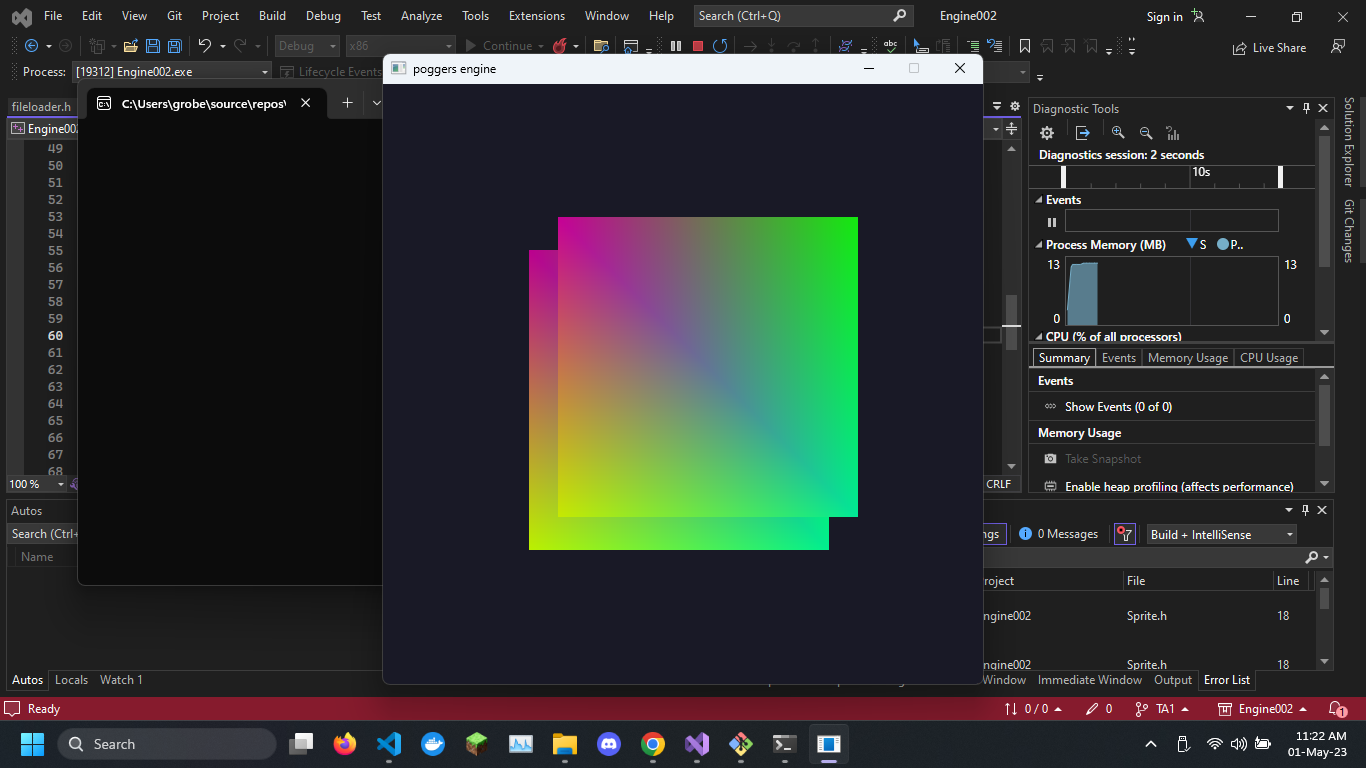
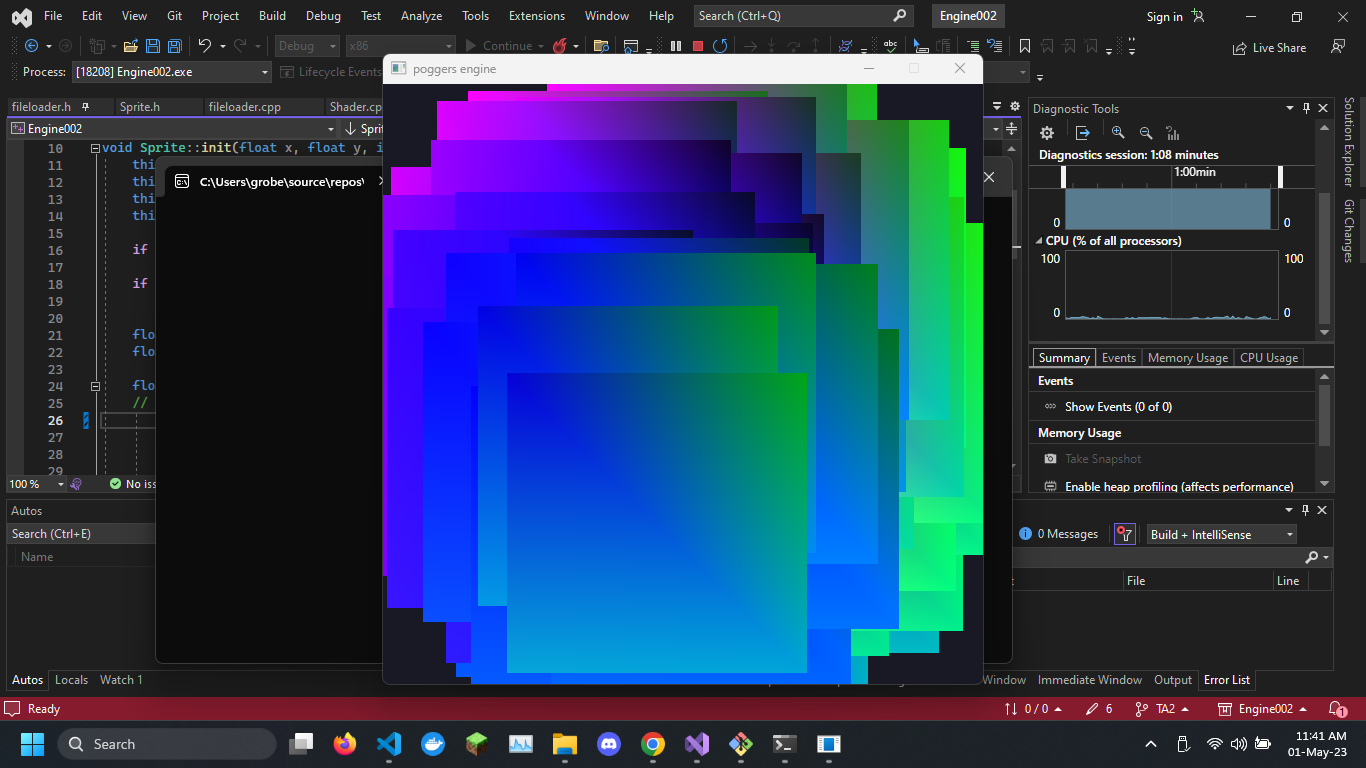
TA2

diff --git a/Engine002/MainGame.cpp b/Engine002/MainGame.cpp
@@ -6,6 +6,7 @@ MainGame::MainGame() {
 	height = 600;
 	gameState = GameState::PLAY;
 	timer = 0.0f;
+	timerSpawn = 0.0f;
 }
 
 MainGame::~MainGame() {
@@ -52,14 +53,23 @@ void MainGame::draw() {
 	glClear(GL_COLOR_BUFFER_BIT | GL_DEPTH_BUFFER_BIT);
 	// si tengo elementos actualizo
 
+	timerSpawn += 0.001f;
+	if (timerSpawn > 1.0f) {
+		timerSpawn = 0.0f;
+		size_t index = points.size();
+		points.push_back(std::make_pair(cosf(timer) * 0.25f, sinf(timer) * 0.25f));
+	}
+
 	timer += 0.001f;
 
 	shader.Use();
 	GLint uDesface = shader.getUniform("uDesface");
+	GLint uAddPoss = shader.getUniform("uAddPoss");
 
-	for (size_t i = 0; i < sprites.size(); i++) {
+	for (size_t i = 0; i < points.size(); i++) {
 		glUniform1f(uDesface, timer + 0.1f*i);
-		sprites[i].draw();
+		glUniform2f(uAddPoss, points[i].first, points[i].second);
+		sprite.draw();
 	}
 	
 	SDL_GL_SwapWindow(window);
@@ -68,10 +78,7 @@ void MainGame::draw() {
 void MainGame::run() {
 	init();
 	
-	sprites = { Sprite(), Sprite() };
-	
-	sprites[0].init(-0.6, -0.6, 1, 1);
-	sprites[1].init(-0.5, -0.5, 1, 1);
+	sprite.init(-0.5f, -0.5f, 1, 1);
 
 	update();
 }

diff --git a/Engine002/MainGame.h b/Engine002/MainGame.h
@@ -2,6 +2,7 @@
 #include <SDL/SDL.h>
 #include <GL/eglew.h>
 #include <vector>
+#include <utility>
 #include "Shader.h"
 #include "Sprite.h"
 
@@ -15,9 +16,11 @@ private:
 	int width;
 	int height;
 	SDL_Window* window;
-	std::vector<Sprite> sprites;
+	Sprite sprite;
 	Shader shader;
+	std::vector<std::pair<GLfloat, GLfloat>> points;
 	float timer;
+	float timerSpawn;
 
 	void init();
 	void processInput();

diff --git a/Engine002/Sprite.cpp b/Engine002/Sprite.cpp
@@ -23,7 +23,7 @@ void Sprite::init(float x, float y, int width, int height) {
 
 	float vertexData[] = {
 	// |--Position--|  |----Color----|  |---UV---|  
-		x,  y,  0.0,    1.0, 1.0, 0.0,   0.0, 0.0,
+		x,  y,  0.0,    1.0, 1.0, 1.0,   0.0, 0.0,
 		xw, y,  0.0,    0.0, 1.0, 1.0,   0.0, 0.0,
 		x,  yh, 0.0,    1.0, 0.0, 1.0,   0.0, 0.0,
 		xw, yh, 0.0,    0.1, 1.0, 0.1,   0.0, 0.0,

diff --git a/README.md b/README.md
@@ -1,3 +1,3 @@
-# TA1
+# TA2
 
 ![](img/Screenshot.png)
